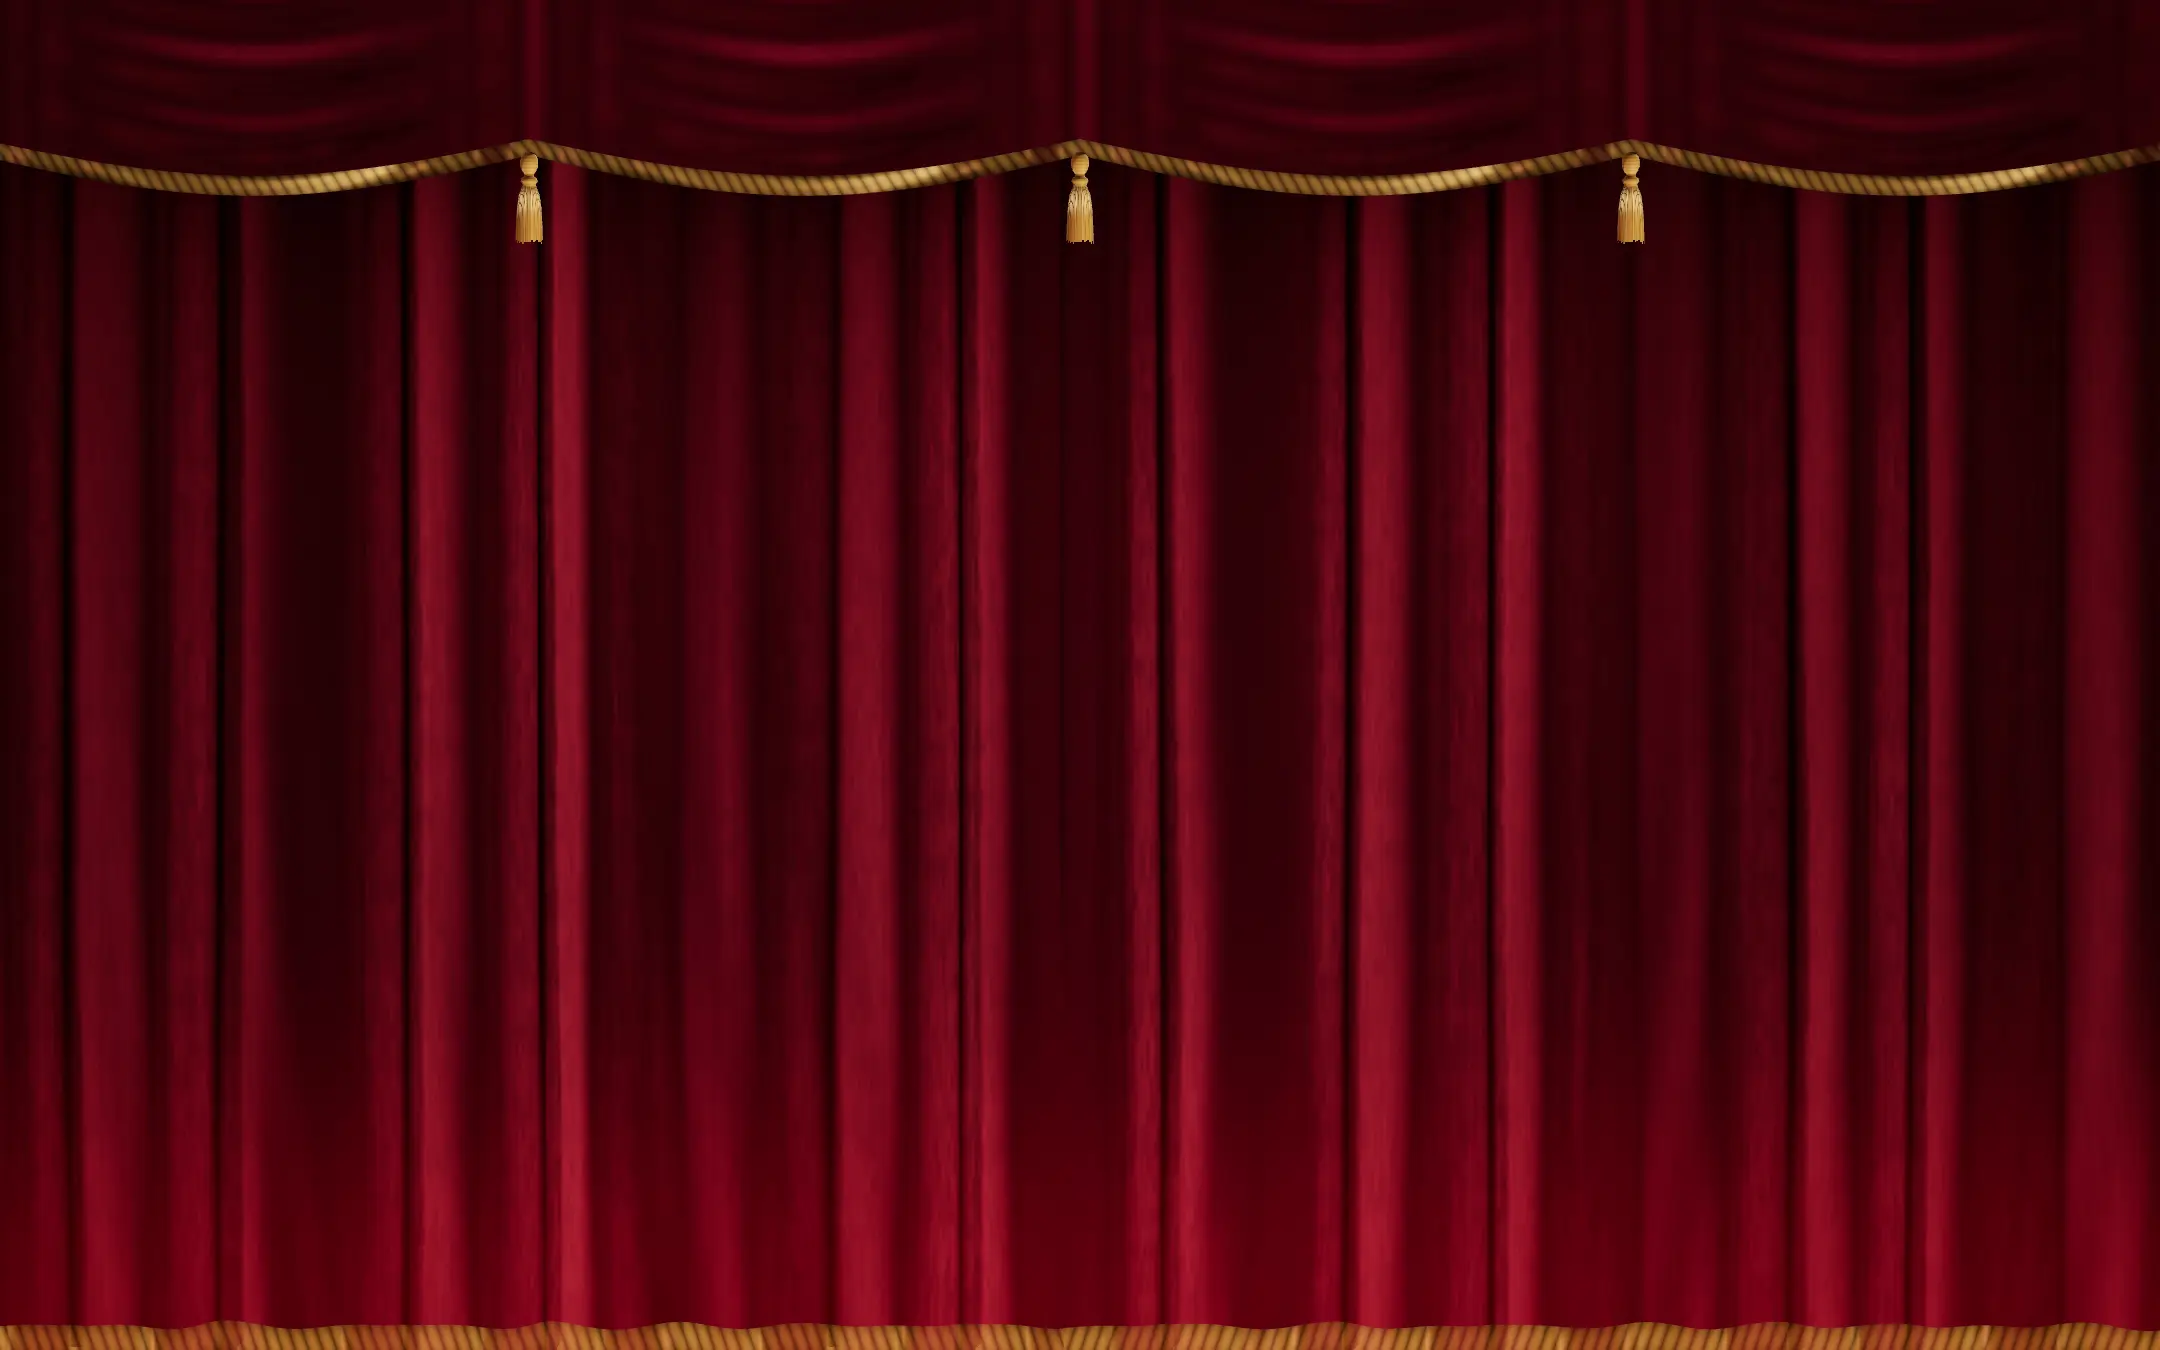
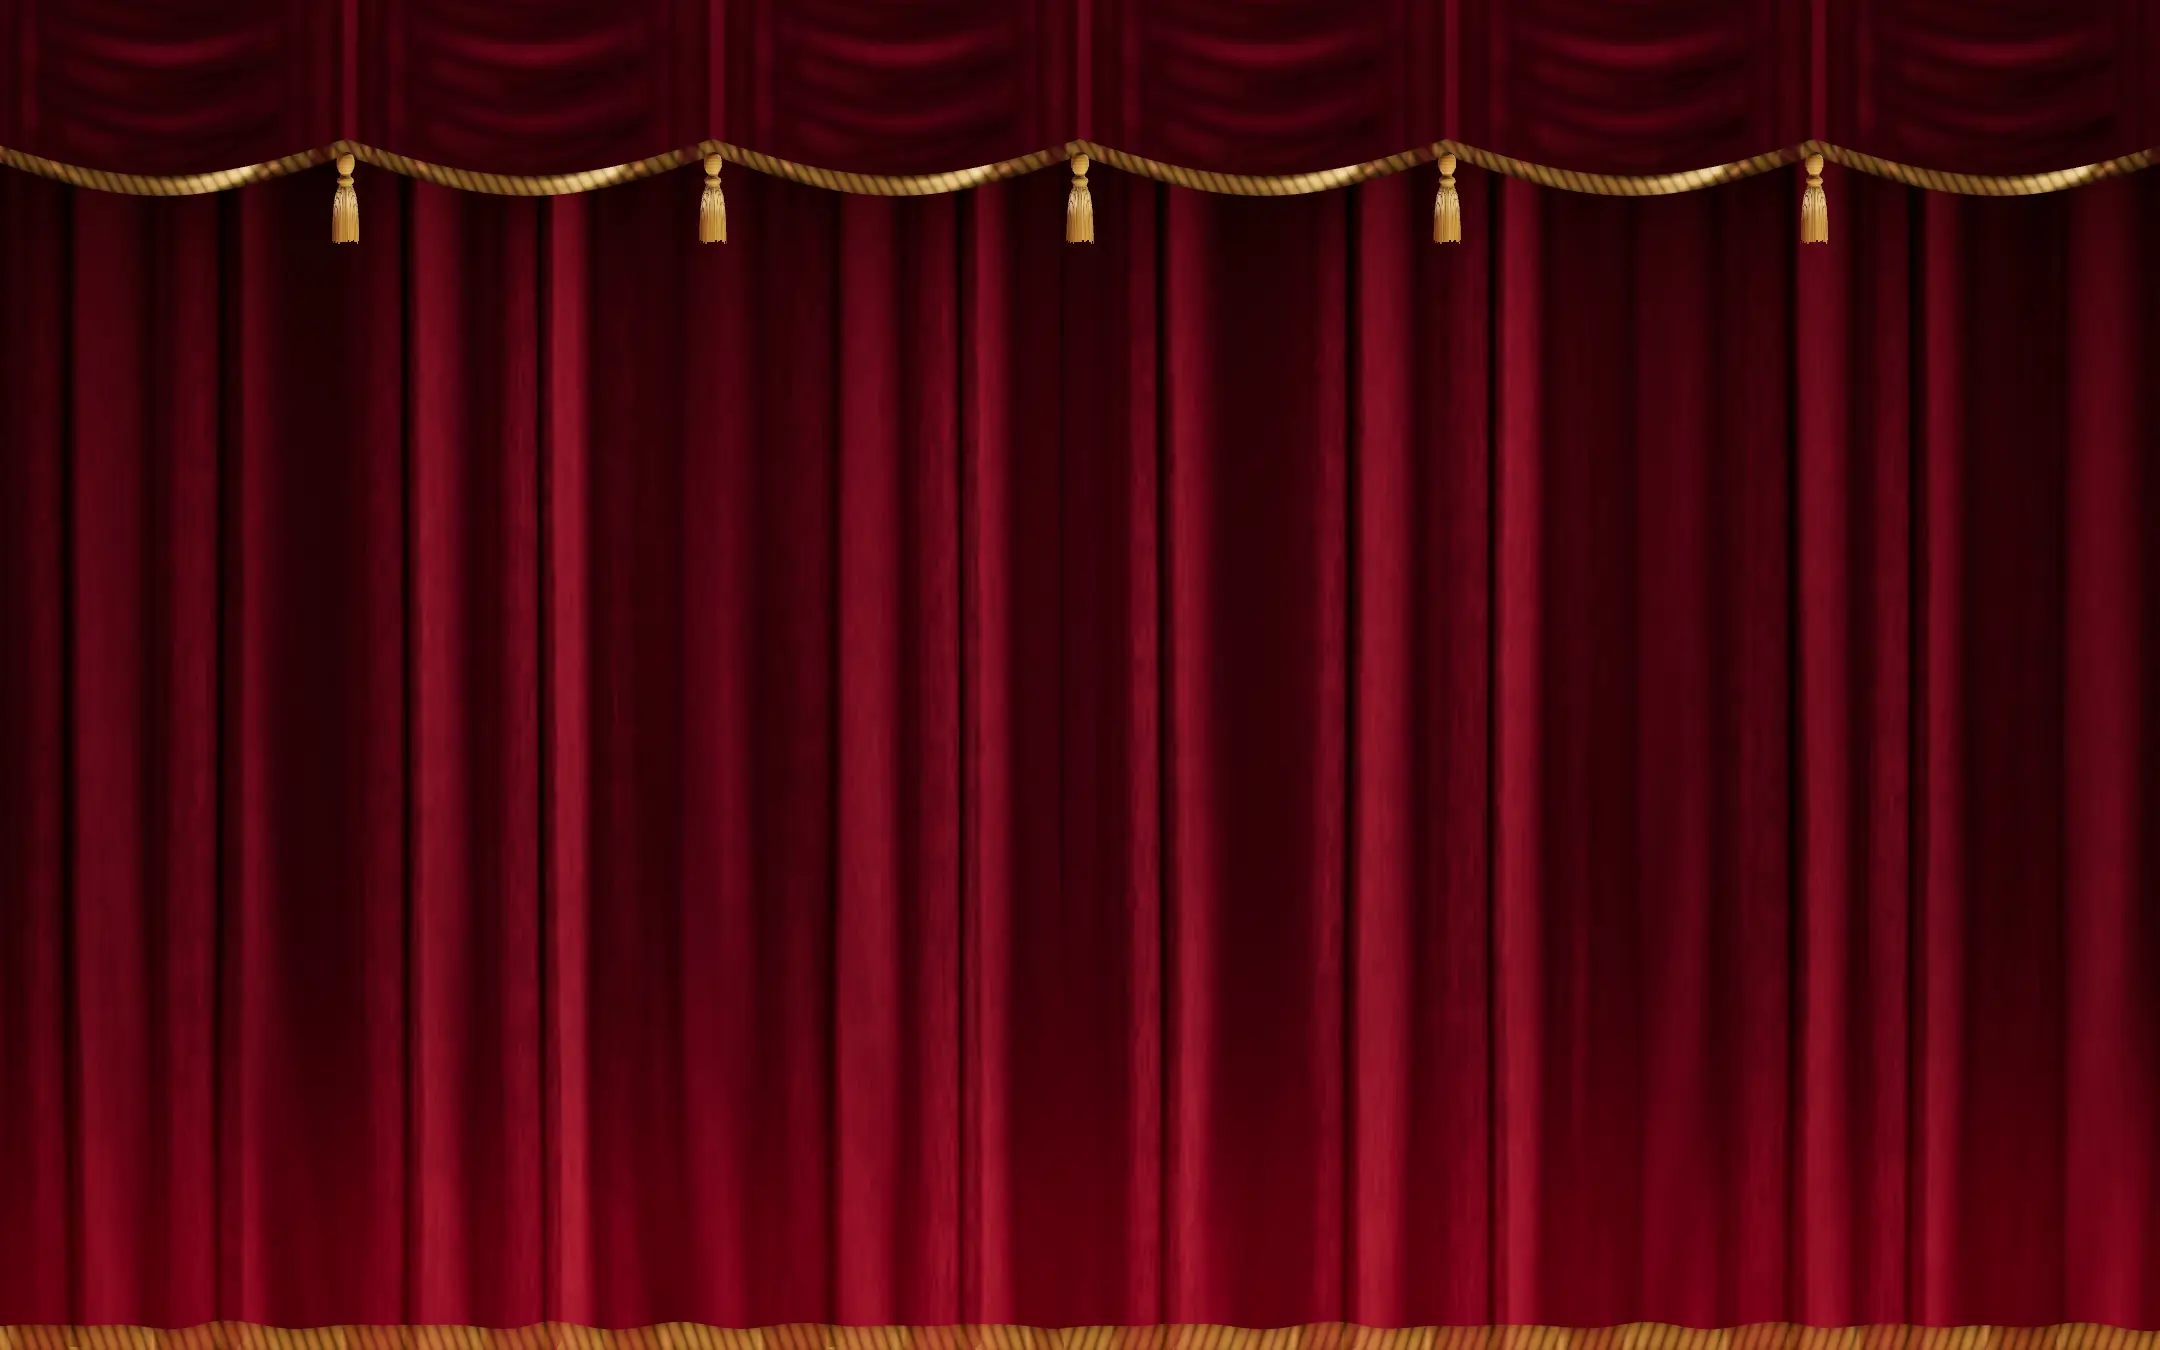
feat(web): 開場布幕流蘇固定五顆
帷幔在任何畫面比例都是六段垂花（VALANCE_SWAGS），五個綁點各掛一顆流蘇；
原本段數跟著比例算，1440×900 三顆、寬螢幕四顆、手機一顆。
重產五張首屏海報並更新 ENTRANCE_POSTERS 版號，預覽 velvet.js 重新產生。

Changed region(s): [[0.0, 0.0, 1.0, 0.1867], [0.2171, 0.0, 0.2792, 0.0622], [0.9306, 0.0311, 0.9616, 0.0622]]

diff --git a/design/entrance-curtain-a-velvet-20260922/velvet.js b/design/entrance-curtain-a-velvet-20260922/velvet.js
@@ -31,15 +31,19 @@ function entranceTimeline(elapsedMs) {
   const shadowOpacity = 0.18 * (1 - smooth(opening / 0.8));
   return { phase, countdown, opening, projection, iris, logoOpacity, leaderOpacity, leaderIris, sweep, flash, flare, filmFrame: Math.floor(countElapsed / (1e3 / 12)), shadowOpacity, complete };
 }
+var COMPACT_LOGO = 1500;
+var COMPACT_OPENING = 2300;
+var COMPACT_DURATION = COMPACT_LOGO + COMPACT_OPENING;
+var COMPACT_RESUME = OPENING_START + 180;
 
 // web/app/utils/entrance-policy.ts
 var ENTRANCE_SESSION_KEY = "ivy-entrance-a-seen";
 var ENTRANCE_POSTERS = [
-  ["(min-aspect-ratio: 15/8)", "/assets/entrance-poster-wide.webp?v=284d0e3b"],
-  ["(max-aspect-ratio: 2/3)", "/assets/entrance-poster-phone.webp?v=0c426b53"],
-  ["(max-aspect-ratio: 25/24)", "/assets/entrance-poster-portrait.webp?v=7b04cd78"],
-  ["(max-aspect-ratio: 35/24)", "/assets/entrance-poster-landscape.webp?v=6a5f77f4"],
-  ["all", "/assets/entrance-poster-desktop.webp?v=35a6d775"]
+  ["(min-aspect-ratio: 15/8)", "/assets/entrance-poster-wide.webp?v=5184d415"],
+  ["(max-aspect-ratio: 2/3)", "/assets/entrance-poster-phone.webp?v=a91de577"],
+  ["(max-aspect-ratio: 25/24)", "/assets/entrance-poster-portrait.webp?v=63059e4f"],
+  ["(max-aspect-ratio: 35/24)", "/assets/entrance-poster-landscape.webp?v=d0054d29"],
+  ["all", "/assets/entrance-poster-desktop.webp?v=4f9e5152"]
 ];
 var ENTRANCE_PROJECTION = "/assets/ivy-30th-anniversary-projection.webp?v=bd2d47dc";
 var ENTRANCE_DIGIT_FONT = "/assets/fonts/oswald-700-leader.woff2";
@@ -102,6 +106,7 @@ var velvetPalette = {
   clothTint: "#ff8a99"
 };
 var VALANCE_FLY = 0.5;
+var VALANCE_SWAGS = 6;
 var clothDeformation = (
   /* glsl */
   `
@@ -170,7 +175,7 @@ varying vec2 clothUv;
 varying vec3 clothPosition;
 const float V_PI = 3.14159265359;
 vec3 valancePoint(vec2 uv) {
-  float swags = max(2.0, floor(valanceAspect*2.4 + 0.5));
+  float swags = ${VALANCE_SWAGS.toFixed(1)};
   float swag = fract(uv.x*swags);
   float droop = sin(swag*V_PI);
   // The hem keeps its pointed cusps, but the depth eases to zero slope at each
@@ -251,7 +256,7 @@ uniform float valanceAspect;
 uniform float valanceLift;
 float valanceHem(float x) {
   float u = (x/(valanceAspect*1.02)+1.0)*0.5;
-  float swags = max(2.0, floor(valanceAspect*2.4 + 0.5));
+  float swags = ${VALANCE_SWAGS.toFixed(1)};
   return 0.77 - 0.06*sin(fract(u*swags)*3.14159265) + valanceLift*${VALANCE_FLY.toFixed(2)};
 }
 `
@@ -336,6 +341,11 @@ var projectionLighting = (
   // UVs run upwards: (1254 - 495 - 176) / 964 is the crest's source centre.
   vec2 center = vec2(0.0);
   vec2 logoUv = (projected-center)/logoSize + vec2(0.5,583.0/964.0);
+  // The anniversary ribbon throws from the leader's long lens so its straight
+  // edges and lettering do not ripple over each fold. The blend runs up through
+  // the IVY KIDS bar, so there is no step where the two throws meet.
+  float ribbonFlat = 1.0-smoothstep(0.19,0.30,logoUv.y);
+  logoUv = mix(logoUv, (clothPosition.xy*(12.0/(12.0-clothPosition.z))-center)/logoSize + vec2(0.5,583.0/964.0), ribbonFlat);
   vec2 leader = (projected-center)/logoSize.y;
   float radius = length(leader);
   float aa = max(fwidth(radius),0.001);
@@ -346,7 +356,7 @@ var projectionLighting = (
 
   // Emblem: one slide, one light model. A soft follow-spot pool surrounds it,
   // dark ink blocks the lamp, coloured areas replace the cloth with their light.
-  float logoFocus = 0.0016+abs(clothPosition.z)*0.018;
+  float logoFocus = 0.0016+abs(clothPosition.z)*0.018*(1.0-0.7*ribbonFlat);
   vec4 slide = logoTransmission(logoUv)*0.84 + (logoTransmission(logoUv-vec2(logoFocus,0.0))
              + logoTransmission(logoUv+vec2(logoFocus,0.0)) + logoTransmission(logoUv+vec2(0.0,logoFocus))
              + logoTransmission(logoUv-vec2(0.0,logoFocus)))*0.04;
@@ -443,6 +453,9 @@ var projectionLighting = (
   reflectedLight.directDiffuse *= wash;
   reflectedLight.indirectDiffuse *= wash;
   float crestFold = 0.74+0.26*smoothstep(-0.085,0.065,clothPosition.z);
+  // The ribbon keeps only a hint of the fold light, so it reads as one flat band.
+  crestFold = mix(crestFold, 0.92+0.08*smoothstep(-0.085,0.065,clothPosition.z), goldRibbon);
+  float slideIncidence = mix(incidence, 0.88+0.12*incidence, goldRibbon);
   // A little of the dyed cloth tints every projected colour so it sits in the pile.
   vec3 slideLight = slide.rgb*mix(vec3(1.0),clothTint,0.12)*crestOn*crestFold*(0.99+grain*0.02)*1.05;
   // Pools brighten the velvet itself (light times dye) and catch its pile on the
@@ -450,7 +463,7 @@ var projectionLighting = (
   vec3 poolLight = (diffuseColor.rgb*0.95 + rimColor*rim*0.12 + 0.01)*projectionColor*crestOn*(1.0-slide.a);
   // The leader's clear film is brighter than the emblem's pool: a lit gate on the pile.
   vec3 leaderColour = (diffuseColor.rgb*6.0 + rimColor*rim*0.35 + 0.2)*leaderLampColor*leaderLight;
-  reflectedLight.directDiffuse += (slideLight + poolLight + leaderColour) * incidence;
+  reflectedLight.directDiffuse += slideLight*slideIncidence + (poolLight + leaderColour)*incidence;
 `
 );
 function velvetUniforms(pileDensity, stageWidth) {
@@ -530,7 +543,7 @@ ${colour}`);
 ${lights}`);
   };
   const key = `${surface.point}-${shading.projection ? "projection" : shading.braid ? "braid" : shading.stage ? "velvet" : "depth"}`;
-  material.customProgramCacheKey = () => `ivy-velvet-a-${key}-19`;
+  material.customProgramCacheKey = () => `ivy-velvet-a-${key}-20`;
 }
 var TASSEL_RUFF = 0.045;
 var TASSEL_HEM = 0.124;
@@ -815,7 +828,7 @@ function createEntranceCurtain(canvas, host, logoUrl = ENTRANCE_PROJECTION, opti
   const tasselGold = tasselMaterial();
   geometries.push(tasselShape);
   materials.push(tasselGold);
-  const tassels = Array.from({ length: 12 }, () => {
+  const tassels = Array.from({ length: VALANCE_SWAGS - 1 }, () => {
     const tassel = new THREE.Mesh(tasselShape, tasselGold);
     tassel.scale.setScalar(1.1);
     tassel.visible = false;
@@ -886,8 +899,7 @@ function createEntranceCurtain(canvas, host, logoUrl = ENTRANCE_PROJECTION, opti
     });
     valanceUniforms.valanceAspect.value = aspect;
     stageWidth.value = aspect;
-    const swags = Math.max(2, Math.floor(aspect * 2.4 + 0.5));
-    tieXs = Array.from({ length: Math.min(tassels.length, swags - 1) }, (_, k) => ((k + 1) / swags * 2 - 1) * aspect * 1.02);
+    tieXs = tassels.map((_, k) => ((k + 1) / VALANCE_SWAGS * 2 - 1) * aspect * 1.02);
     hemBraid.braidCycles.value = 0.527 * width / 9;
     valanceBraid.braidCycles.value = 1.02 * width / 9;
     drapePile.value = 0.527 * width / 2;

diff --git a/web/app/utils/entranceCurtain.ts b/web/app/utils/entranceCurtain.ts
@@ -13,6 +13,9 @@ const velvetPalette = {
 // How far the valance flies out: far enough that its ease-out finishes above
 // the frame, so the tassels do not crawl across the page header on the way out.
 const VALANCE_FLY = 0.5
+// Six festoon swags at every aspect, so the five interior tie points each hang
+// one tassel (owner's call 2026-09-30; the count used to follow the aspect).
+const VALANCE_SWAGS = 6
 
 type EntranceCurtainOptions = {
   /** Leader numerals face; the fallback sans stays drawn until it loads. */
@@ -87,7 +90,7 @@ varying vec2 clothUv;
 varying vec3 clothPosition;
 const float V_PI = 3.14159265359;
 vec3 valancePoint(vec2 uv) {
-  float swags = max(2.0, floor(valanceAspect*2.4 + 0.5));
+  float swags = ${VALANCE_SWAGS.toFixed(1)};
   float swag = fract(uv.x*swags);
   float droop = sin(swag*V_PI);
   // The hem keeps its pointed cusps, but the depth eases to zero slope at each
@@ -165,7 +168,7 @@ uniform float valanceAspect;
 uniform float valanceLift;
 float valanceHem(float x) {
   float u = (x/(valanceAspect*1.02)+1.0)*0.5;
-  float swags = max(2.0, floor(valanceAspect*2.4 + 0.5));
+  float swags = ${VALANCE_SWAGS.toFixed(1)};
   return 0.77 - 0.06*sin(fract(u*swags)*3.14159265) + valanceLift*${VALANCE_FLY.toFixed(2)};
 }
 `
@@ -780,8 +783,8 @@ export function createEntranceCurtain(canvas: HTMLCanvasElement, host: HTMLEleme
   const tasselGold = tasselMaterial()
   geometries.push(tasselShape)
   materials.push(tasselGold)
-  // One tassel per interior tie point; the count follows the viewport aspect.
-  const tassels = Array.from({ length: 12 }, () => {
+  // One tassel per interior tie point.
+  const tassels = Array.from({ length: VALANCE_SWAGS - 1 }, () => {
     const tassel = new THREE.Mesh(tasselShape, tasselGold)
     tassel.scale.setScalar(1.1)
     tassel.visible = false
@@ -859,8 +862,7 @@ export function createEntranceCurtain(canvas: HTMLCanvasElement, host: HTMLEleme
     clothUniforms.forEach(uniforms => { uniforms.curtainAspect.value = aspect })
     valanceUniforms.valanceAspect.value = aspect
     stageWidth.value = aspect
-    const swags = Math.max(2, Math.floor(aspect*2.4 + 0.5))
-    tieXs = Array.from({ length: Math.min(tassels.length, swags - 1) }, (_, k) => ((k + 1)/swags*2 - 1)*aspect*1.02)
+    tieXs = tassels.map((_, k) => ((k + 1)/VALANCE_SWAGS*2 - 1)*aspect*1.02)
     // Keep one braid twist every ~9 CSS px whatever the viewport.
     hemBraid.braidCycles.value = 0.527*width/9
     valanceBraid.braidCycles.value = 1.02*width/9

diff --git a/web/app/utils/entrance-policy.ts b/web/app/utils/entrance-policy.ts
@@ -1,17 +1,17 @@
 export const ENTRANCE_SESSION_KEY = 'ivy-entrance-a-seen'
 
-// Stills of the WebGL curtain's first frame (progress 0), one per valance swag
-// count: the engine uses max(2, floor(aspect*2.4 + 0.5)). Folds and tie points
-// are fractions of the viewport, so a poster stretched across its aspect band
-// keeps the valance, tassels and hem where the live frame draws them. First
+// Stills of the WebGL curtain's first frame (progress 0), one per aspect band.
+// Folds and tie points are fractions of the viewport (the valance always has
+// six swags), so a poster stretched across its aspect band keeps the valance,
+// tassels and hem where the live frame draws them. First
 // match wins. Regenerate with design/entrance-curtain-a-velvet-20260922/render-posters.cjs
 // whenever the curtain's look changes, or the cover shows an outdated curtain.
 export const ENTRANCE_POSTERS: ReadonlyArray<readonly [media: string, src: string]> = [
-  ['(min-aspect-ratio: 15/8)', '/assets/entrance-poster-wide.webp?v=04d5da0f'],
-  ['(max-aspect-ratio: 2/3)', '/assets/entrance-poster-phone.webp?v=4b1ce1a4'],
-  ['(max-aspect-ratio: 25/24)', '/assets/entrance-poster-portrait.webp?v=48bc69e7'],
-  ['(max-aspect-ratio: 35/24)', '/assets/entrance-poster-landscape.webp?v=aa84c846'],
-  ['all', '/assets/entrance-poster-desktop.webp?v=e0ccbd68']
+  ['(min-aspect-ratio: 15/8)', '/assets/entrance-poster-wide.webp?v=5184d415'],
+  ['(max-aspect-ratio: 2/3)', '/assets/entrance-poster-phone.webp?v=a91de577'],
+  ['(max-aspect-ratio: 25/24)', '/assets/entrance-poster-portrait.webp?v=63059e4f'],
+  ['(max-aspect-ratio: 35/24)', '/assets/entrance-poster-landscape.webp?v=d0054d29'],
+  ['all', '/assets/entrance-poster-desktop.webp?v=4f9e5152']
 ]
 
 // The renderer's own assets. The projection is the original PNG losslessly

diff --git a/web/tests/entrance-policy.spec.ts b/web/tests/entrance-policy.spec.ts
@@ -98,7 +98,7 @@ describe('renderer assets', () => {
 
 describe('first-paint curtain poster', () => {
   const poster = (name: string) => ENTRANCE_POSTERS.find(([, src]) => src.includes(`entrance-poster-${name}.webp`))![1]
-  // Aspect bands follow the engine's valance swag count, max(2, floor(aspect*2.4 + 0.5)).
+  // Aspect bands where a stretched poster still matches the live curtain.
   it.each([
     [390 / 844, 'phone'], [0.75, 'portrait'], [1, 'portrait'], [1.33, 'landscape'],
     [1.6, 'desktop'], [16 / 9, 'desktop'], [2.2, 'wide'], [21 / 9, 'wide']

diff --git a/DESIGN.md b/DESIGN.md
@@ -407,7 +407,7 @@
 - 絨布纖維紋理要以螢幕尺寸定密度（約 2 CSS px），並用 `fwidth` 在收攏時淡出，避免開幕時閃爍。
 - 兩片前緣要收平，前片前緣加分幕陰影；投影跨過中央時的錯位應藏在分幕線裡，不能讓圓圈斷開。
 - 片頭的老片效果（顆粒、閃爍、灰塵、毛髮、刮痕）只能在片框內；閃爍最多約 10%，不做整個畫面的明滅。
-- 帷幔流蘇每個連接點一顆，數量跟隨畫面比例；只在開幕後擺動，倒數期間靜止。
+- 帷幔流蘇每個連接點一顆；只在開幕後擺動，倒數期間靜止。**固定五顆（2026-09-30 使用者要求，取代原本「數量跟隨畫面比例」）**：帷幔在任何比例都是六段垂花（`VALANCE_SWAGS = 6`，帷幔變形、布幕上的帷幔陰影、流蘇位置三處共用），手機 390px 也是五顆。改段數要重產五張首屏海報。
 - **流蘇是金色絲線，不是金屬（2026-09-23 A/20，使用者嫌「金屬吊飾」）**：`MeshPhysicalMaterial` metalness 0、sheen 取代鏡面高光；裙擺每根線各自深淺、各自長短（下緣參差、只畫外側所以縫隙透出絨布），領口下有線束陰影，頭部是水平繞線的圓球。不要回到有縱向凹槽的實心錐體＋金屬度（會被看成黃銅子彈）。尺寸 1.1 倍（原 1.35 太搶、離場時拖在頁首字上）。
 - **「略過動畫」在拉幕開始時退場（2026-09-23，使用者說太晚消失）**：倒數結束、片頭燈熄、布幕開始拉開的同一刻（`opening > 0`）淡出 240ms，之後 `visibility:hidden` 不可點、不可聚焦；Escape 仍可略過。原本留到整段 7.9 秒結束，拉幕後會疊在頁首「預約參觀」上、像網站自己的按鈕。
 - 帷幔飛出距離是 `VALANCE_FLY = 0.5`（原 0.4），三處共用（帷幔變形、布幕上的帷幔陰影、流蘇位置）；0.4 時 smoothstep 的減速尾巴剛好在畫面上緣，流蘇最後慢慢爬過 Logo 與選單文字。

diff --git a/README.md b/README.md
@@ -1,3 +1,9 @@
+## 2026-09-30 開場布幕流蘇固定五顆
+
+使用者要求開場動畫的金色流蘇由四顆改成五顆。原本帷幔垂花數依畫面比例 `max(2, floor(aspect×2.4+0.5))`，流蘇掛在內側綁點，所以 1440×900 是三顆、較寬螢幕四顆、手機一顆。`web/app/utils/entranceCurtain.ts` 改成固定六段垂花（`VALANCE_SWAGS`），任何比例都是五顆；手機也跟著變五顆，垂花較窄、流蘇間距約一顆流蘇寬。五張首屏海報（`web/public/assets/entrance-poster-*.webp`）用 `render-posters.cjs` 重產並更新 `ENTRANCE_POSTERS` 版號，比例分檔不變；預覽 `velvet.js` 重新產生（main 上原本就落後，一併追上）。
+
+驗證：Node 22 `nuxt typecheck` 0 個 `error TS`；`npm run test:website` 64 檔 663 項通過（rebase 到 `7861fc6` 後重跑）。dev server（fixture）用 Playwright（Metal）實跑開場：1512×790、1440×900、390×844 倒數期間都是五顆，拉幕後帷幔連同流蘇飛出，無 console／shader error。Safari／iOS 實機未驗證。未部署。
+
 ## 2026-09-30 已完成分支併入 main（`merge/branches-20260930`）
 
 併入三個已提交、沒有在途修改的分支：`feature/sketch-preview-20260929`（首頁五校左右預覽改線稿）、`claude/backend-ui-ux-optimization-y5ndf4` 在 PR #17 之後的 16 個提交（2026-09-29 業主裁定：同事顯示名稱、操作紀錄的操作者、側欄只留參觀案件數字、隱藏官網不顯示的欄位、「個資與搜尋設定」改名）、`feature/ux-admin-20260929`（後台第六輪 UX，取捨見下方該段）。
